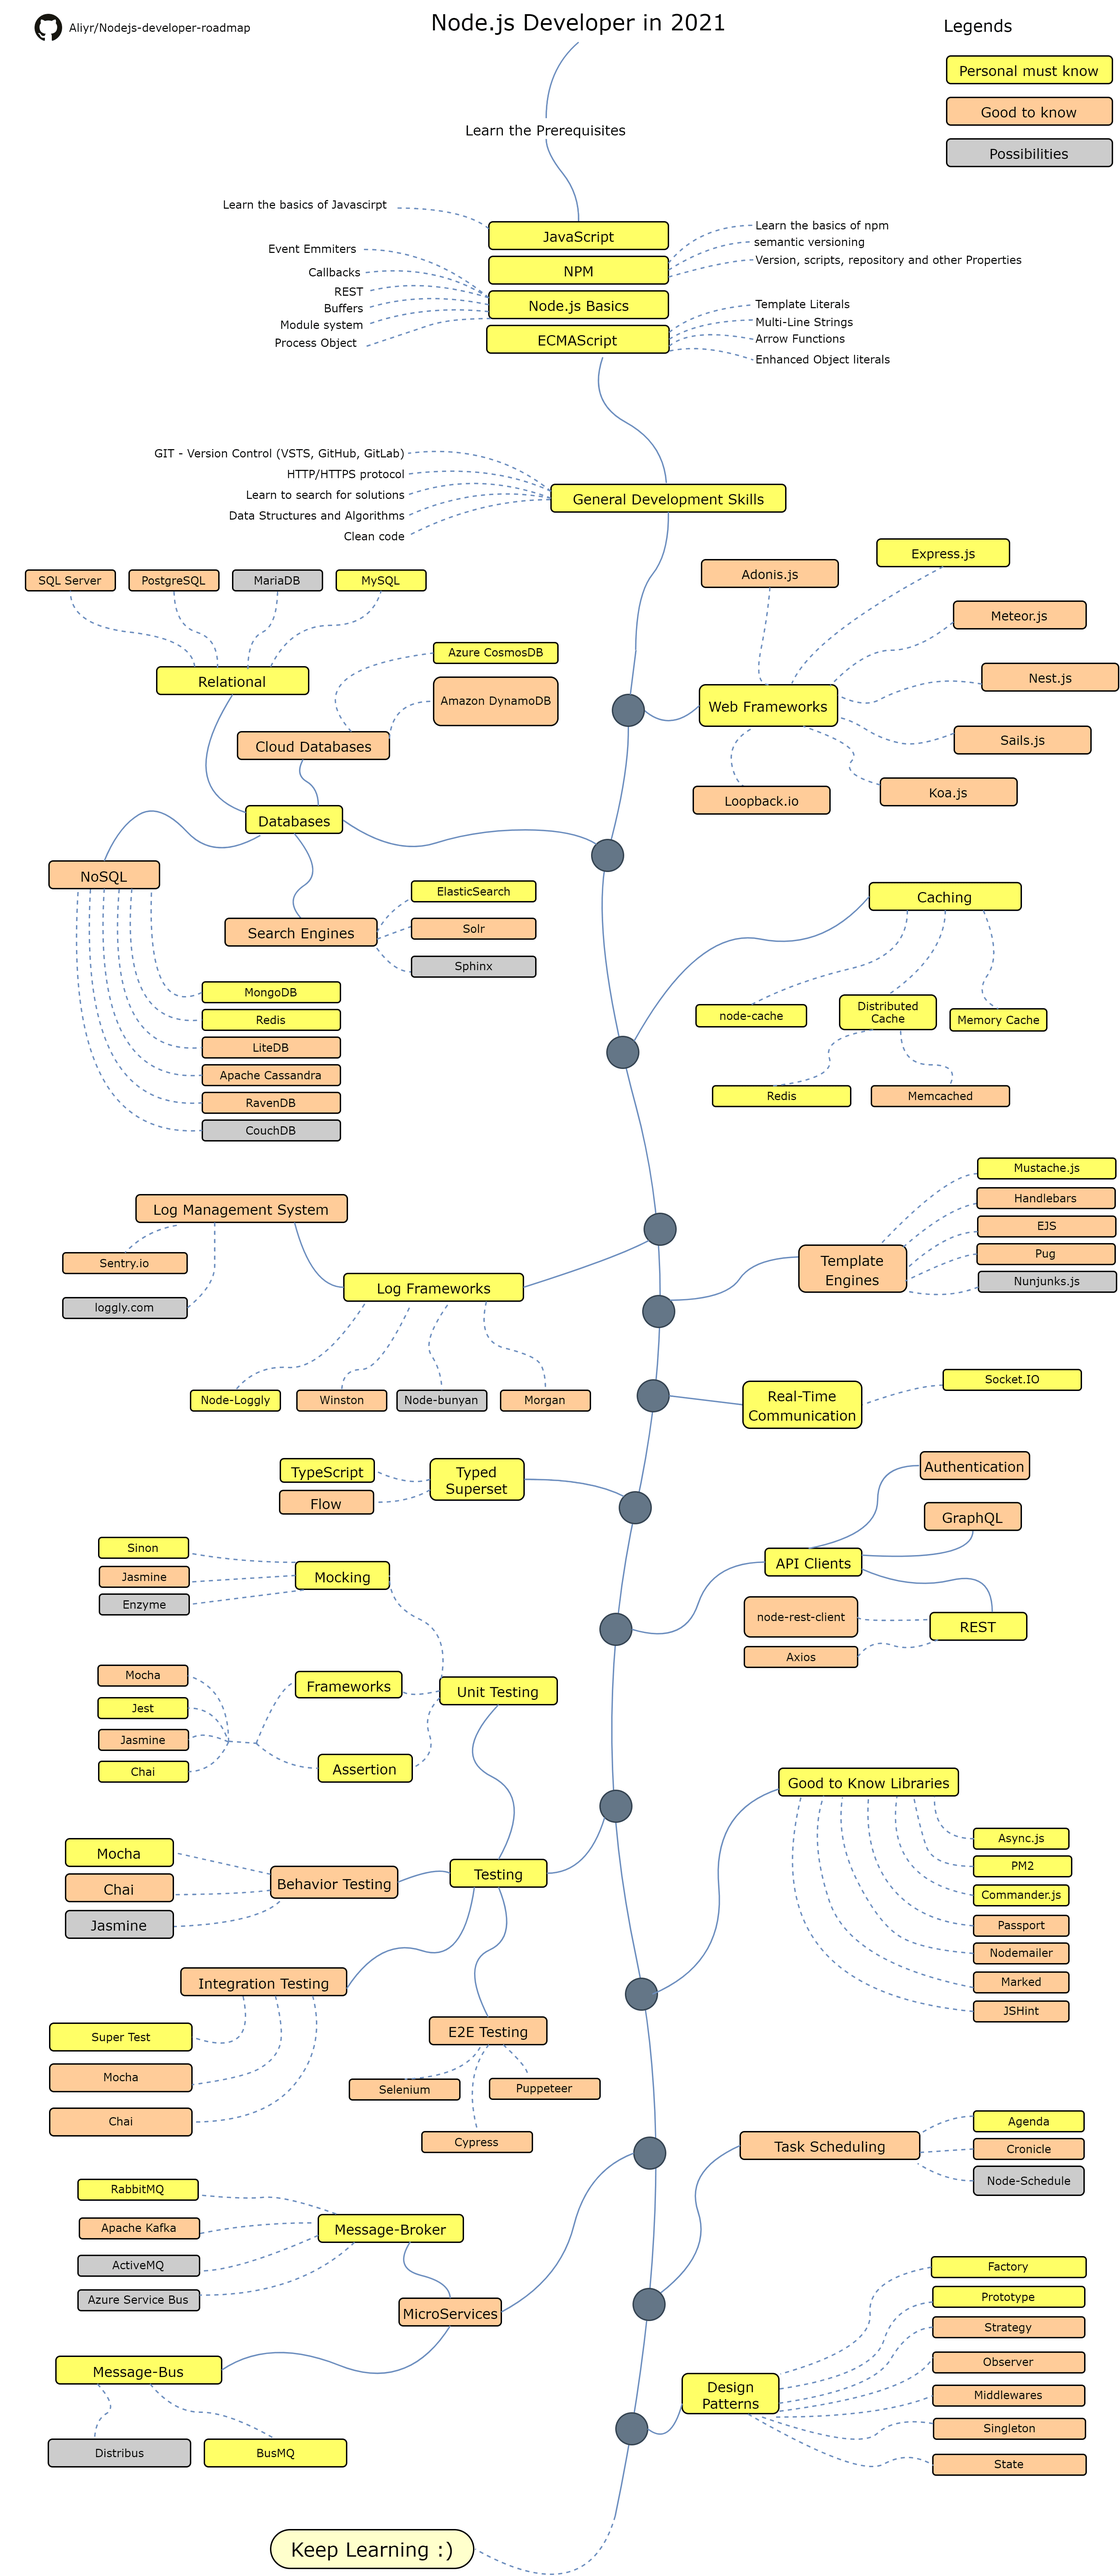
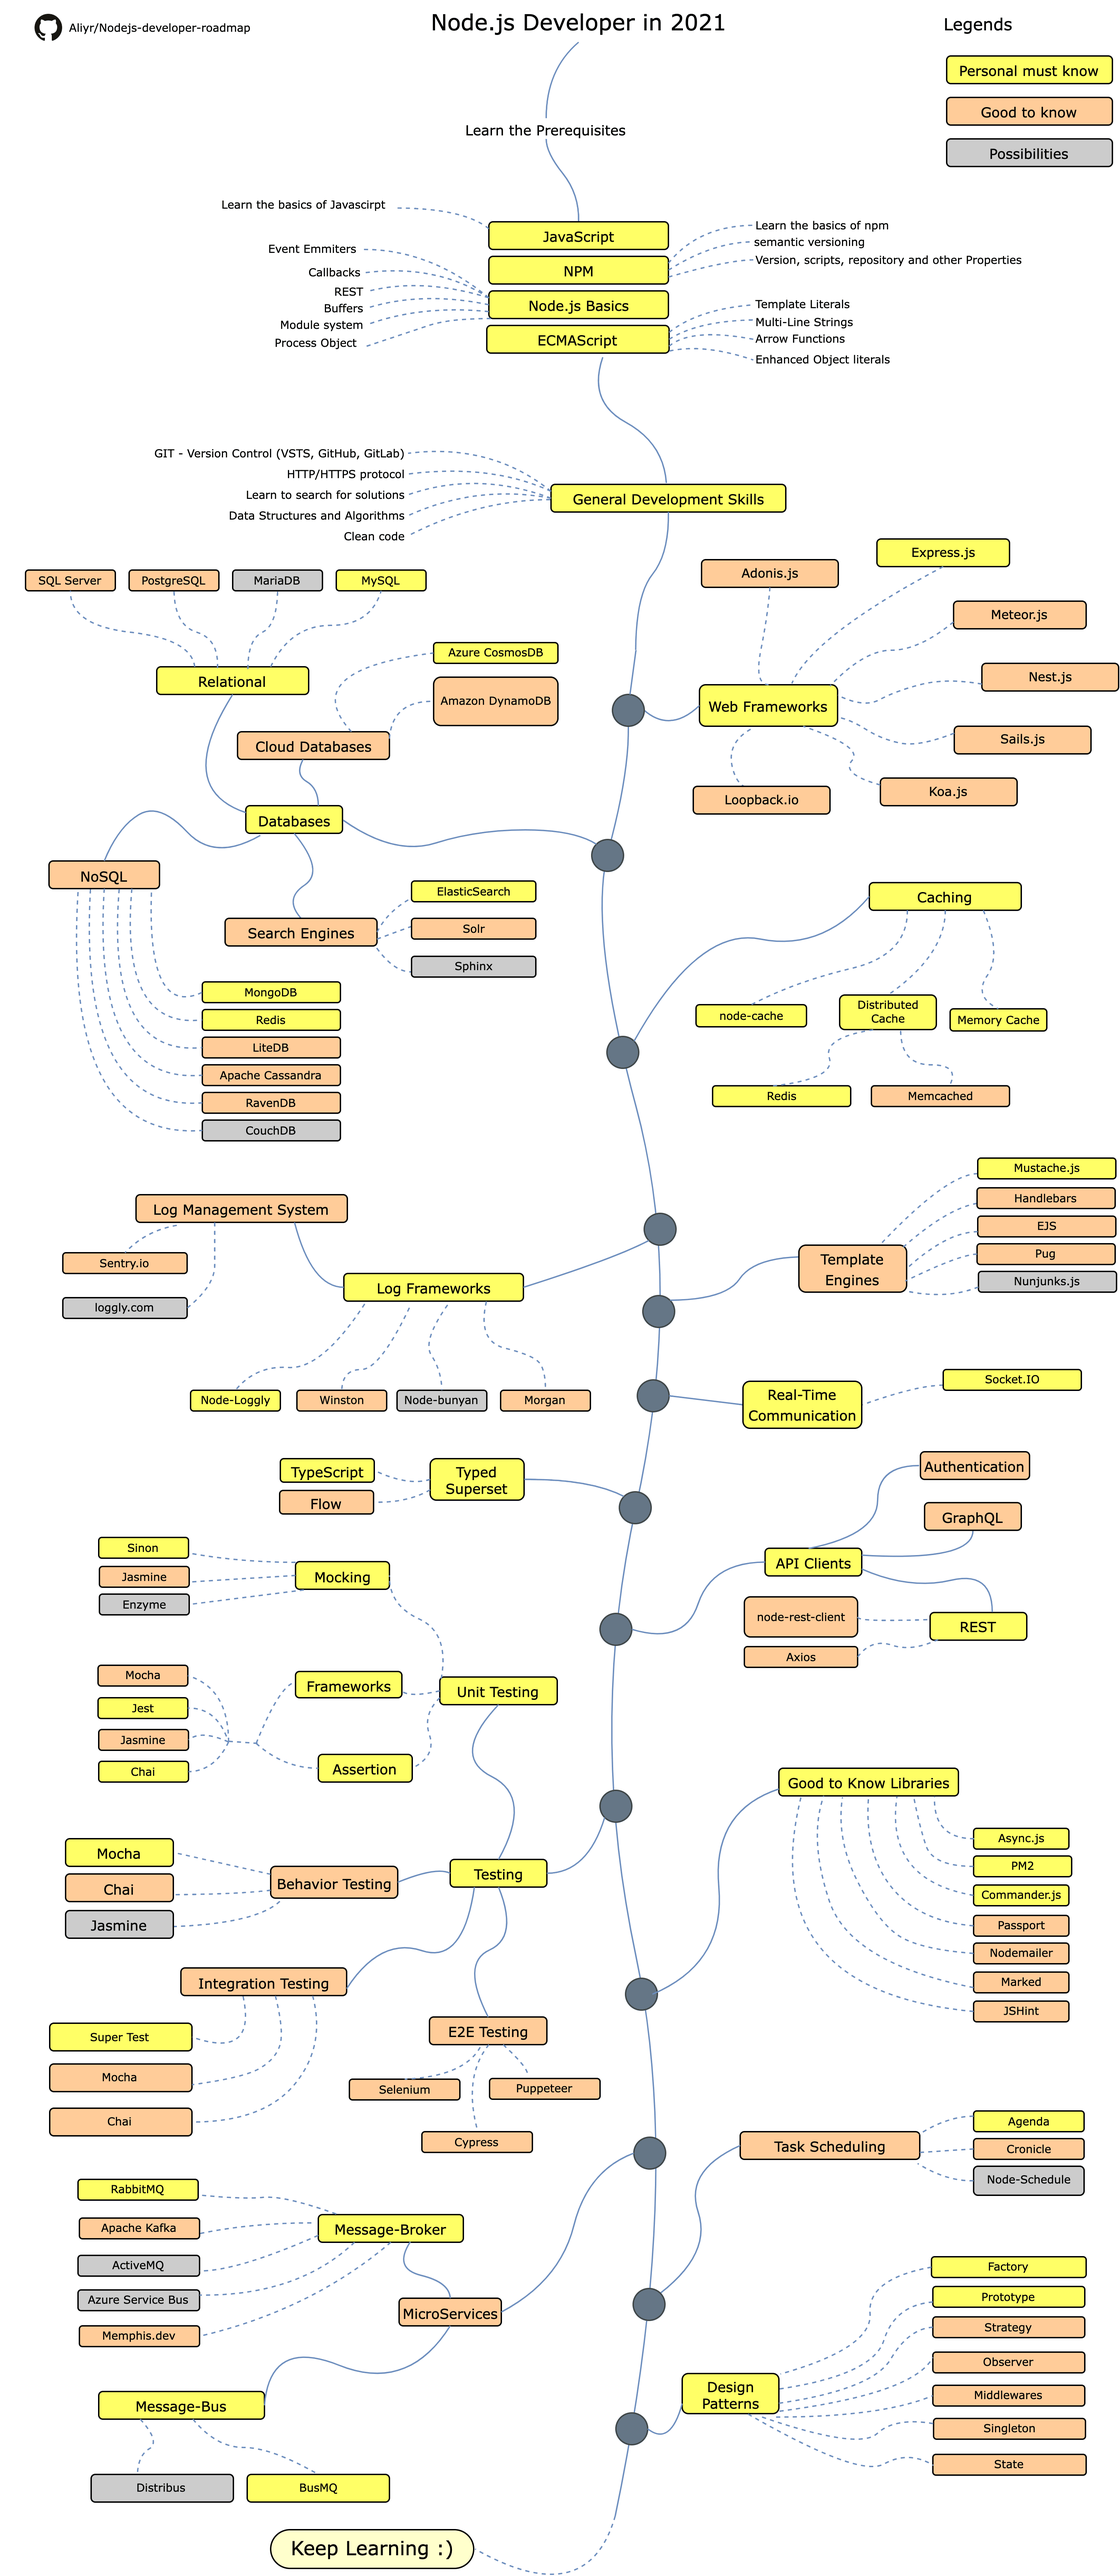
adding memphis.dev to the message broker section

Changed region(s): [[0.0311, 0.875, 0.3425, 1.0], [0.0934, 0.7812, 0.1245, 0.8125]]

diff --git a/ReadMe.md b/ReadMe.md
@@ -147,6 +147,7 @@ If you like or are using this project to learn or start your solution, please gi
        - [Apache Kafka](https://www.npmjs.com/package/kafka-node)
        - [ActiveMQ](https://github.com/apache/activemq)
        - [Azure Service Bus](https://docs.microsoft.com/en-us/azure/service-bus-messaging/service-bus-messaging-overview)
+       - [Memphis.dev](https://memphis.dev)
     2. Message-Bus
        - [Distribus](https://distribus.com/)
        - [BusMQ](https://github.com/capriza/node-busmq)
